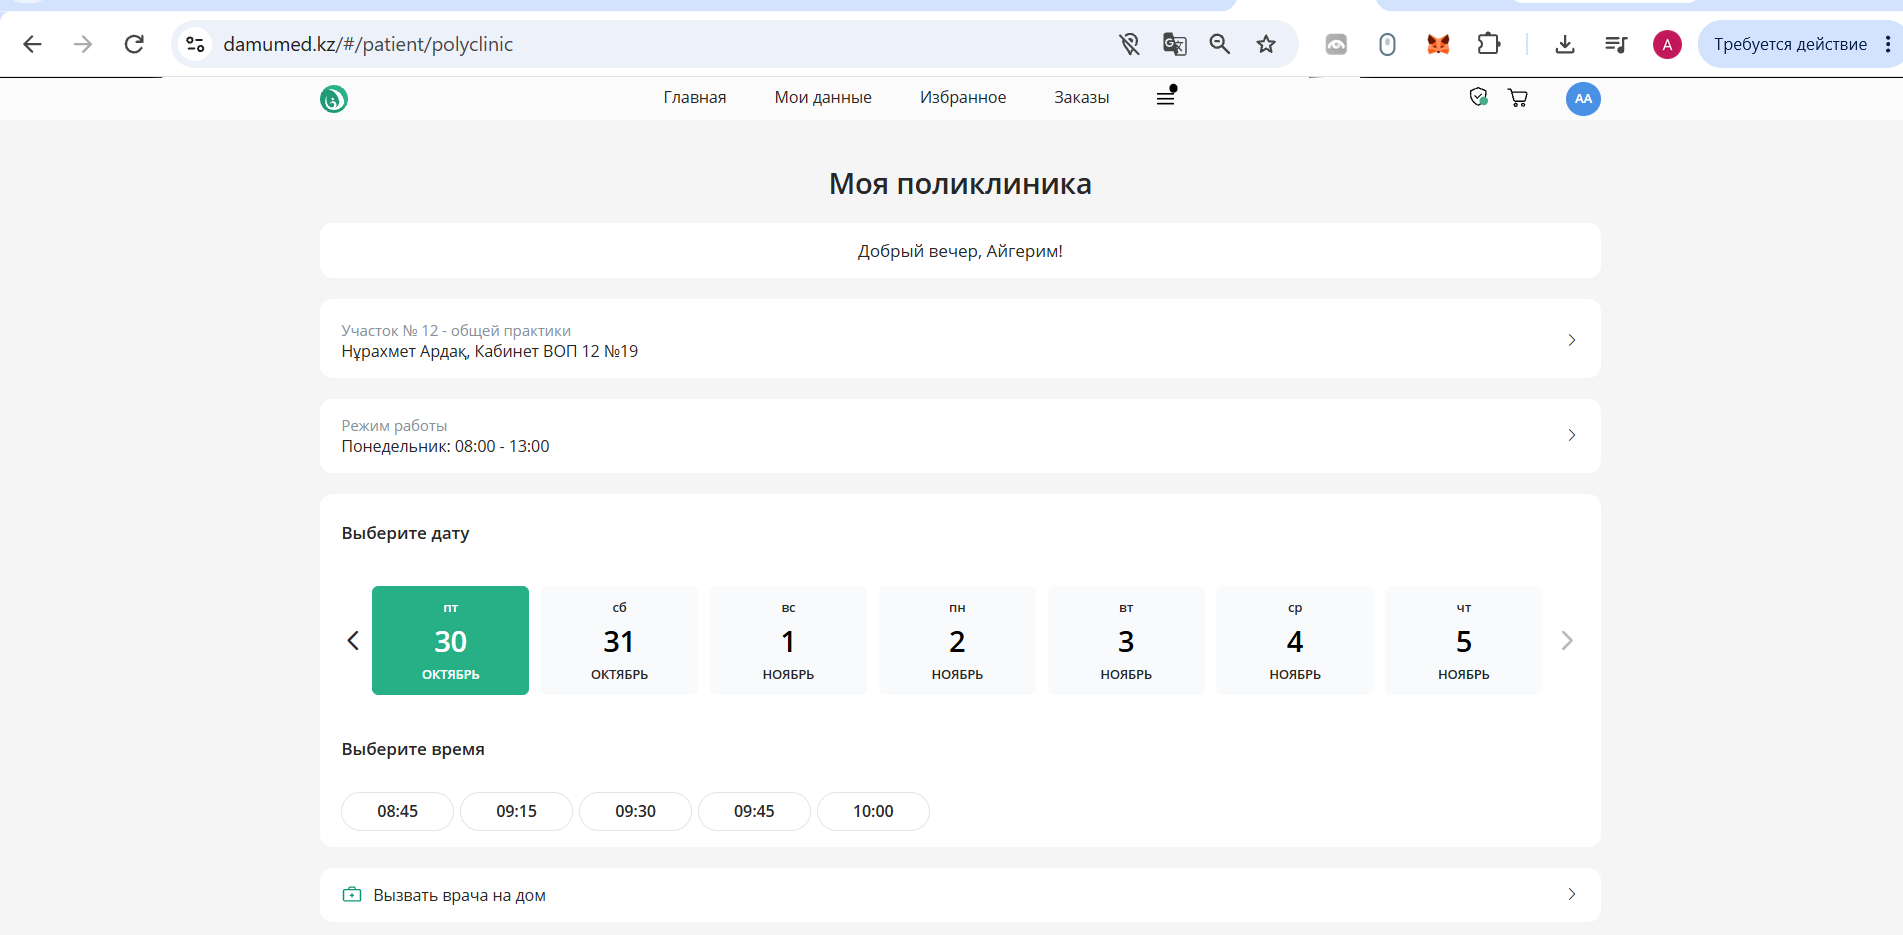
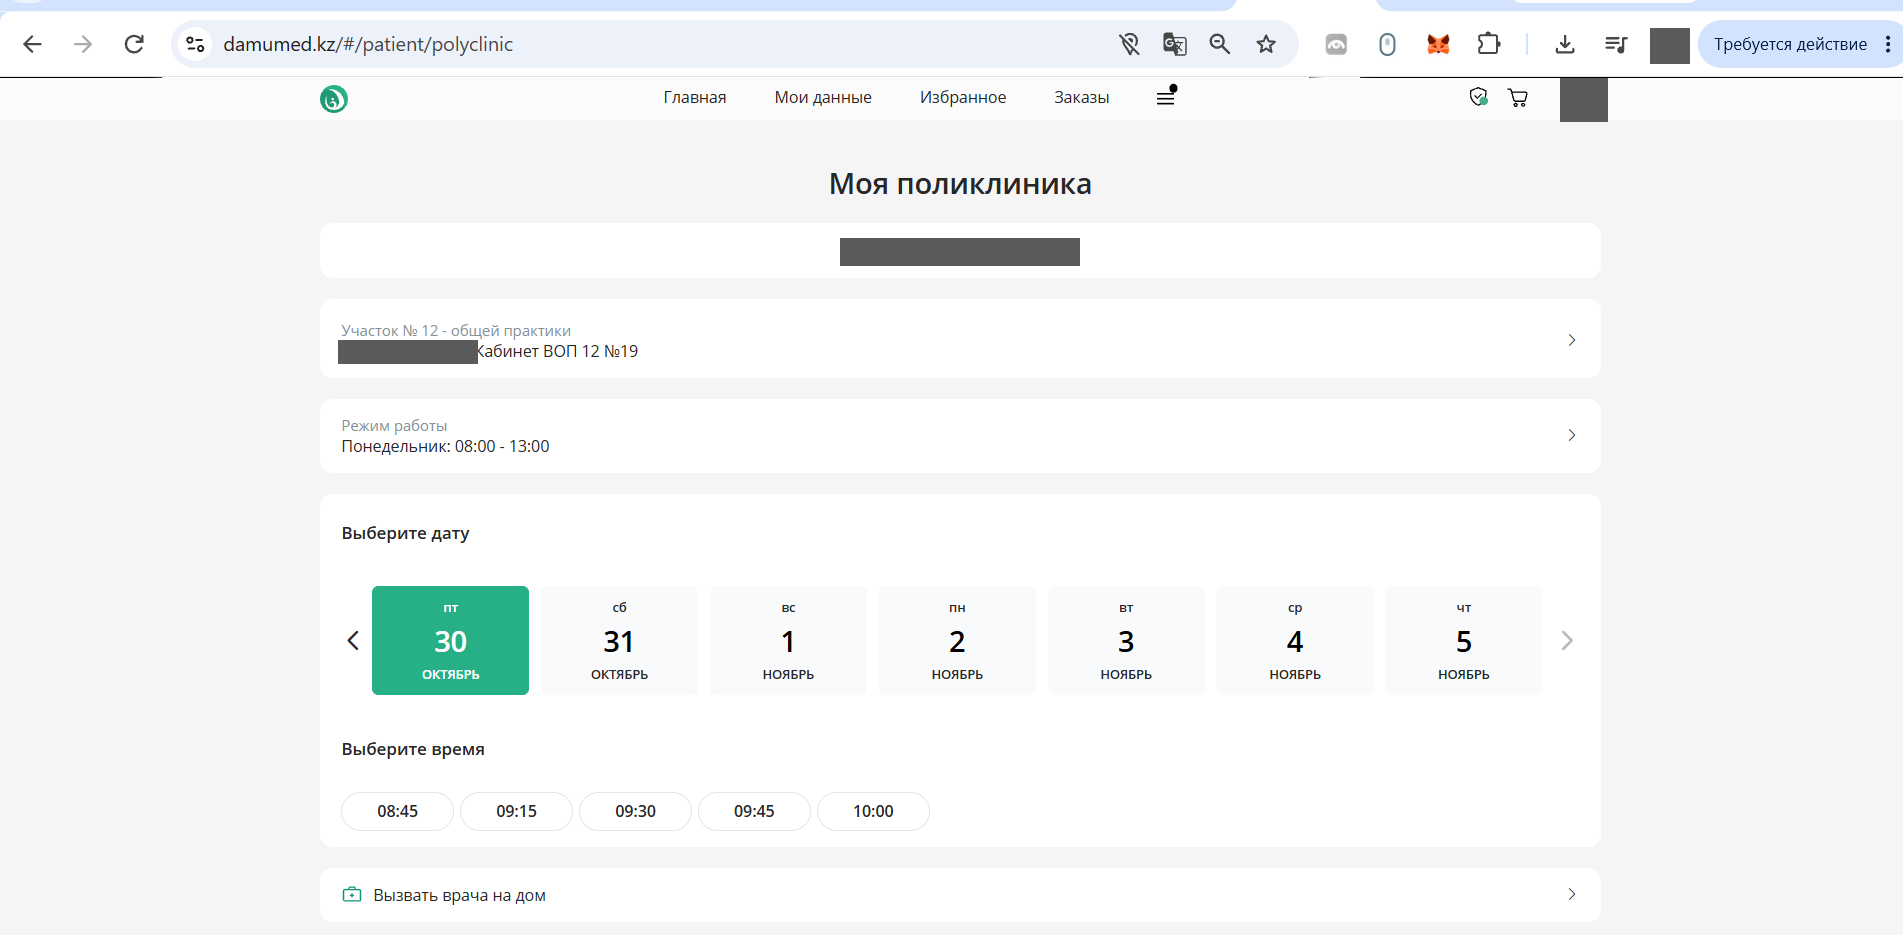
DIP-12: Remove personal data from screenshots, fill comparison for all systems

diff --git a/docs/04-existing-systems.md b/docs/04-existing-systems.md
@@ -17,36 +17,36 @@ Five systems that patients in Kazakhstan use to book outpatient appointments are
 | Criterion | Damumed | eGov.kz service | Mediker | DOQ.kz | MedElement / Doctor.kz | This project |
 |-----------|---------|-----------------|---------|--------|------------------------|--------------|
 | Type | State medical information system with patient app | State portal service | Medical assistance company with own clinic network | Private booking marketplace | Private portal and clinic information system vendor | Academic prototype |
-| C1 Online self-booking | ✔ [N4] | ✔ — application, digital signature required [N3; S-eGov-1, 2] | ? | ✔ [N6] | ✔ [N7] | MVP |
-| C2 Free time slots visible per doctor | ? | ✖ — date chosen blindly; doctors and periods appear only after a date is chosen [S-eGov-3, 5] | ? | ✔ [N6] | ? | MVP |
-| C3 Automatic nearest-slot recommendation across doctors | ? | ✖ [S-eGov-3, 5] | ? | ? | ? | MVP (top-5 ranking) |
-| C4 Distance-aware ranking or map | ? | ✖ — only the clinic of attachment, no choice [S-eGov-4] | ? | ? | ? | v1 |
-| C5 Electronic referral tied to booking | ? | ✖ — only family doctor and obstetrician-gynecologist can be booked [S-eGov-4] | ? | ? | ? | MVP |
+| C1 Online self-booking | ✔ — with own district doctor [N4; S-Dm-1, 3] | ✔ — application, digital signature required [N3; S-eGov-1, 2] | ✖ — "Book" opens a WhatsApp message to the call center [S-Mk-3, 4] | ✔ — guest booking with phone confirmation [N6; S-Dq-3] | ✔ — booking request form [N7; S-Me-2] | MVP |
+| C2 Free time slots visible per doctor | ✔ — dates and times of the district doctor [S-Dm-1] | ✖ — date chosen blindly; doctors and periods appear only after a date is chosen [S-eGov-3, 5] | ✖ [S-Mk-4] | ✔ — free times for several days on each doctor card [N6; S-Dq-2] | ✖ — only a preference ("nearest days", "before / after lunch"), no concrete slots [S-Me-2] | MVP |
+| C3 Automatic nearest-slot recommendation across doctors | ✖ — only own district doctor [S-Dm-1, 2] | ✖ [S-eGov-3, 5] | ✖ | ✖ — filters "today" and "date", no ranking by combined criteria [S-Dq-2] | ✖ — request for "nearest days", the clinic chooses [S-Me-2] | MVP (top-5 ranking) |
+| C4 Distance-aware ranking or map | ✖ — only the clinic of attachment [S-Dm-1] | ✖ — only the clinic of attachment, no choice [S-eGov-4] | ✖ — list of centers by city [S-Mk-2] | Partly — "nearby" filter and map, not combined with waiting time [S-Dq-2] | Partly — clinic addresses and city filter [S-Me-1] | v1 |
+| C5 Electronic referral tied to booking | ? — an "Active referrals" section exists, link to booking not tested [S-Dm-2] | ✖ — only family doctor and obstetrician-gynecologist can be booked [S-eGov-4] | ✖ | ✖ — private paid appointments | ✖ — private paid appointments | MVP |
 | C6 Automatic reminders | ? | ? | ? | ? | ? | MVP |
-| C7 Waitlist or live queue | ? | ✖ — other doctors "in the order of the live queue" at the clinic [S-eGov-2] | ? | ? | ? | v1 |
-| C8 No-show prediction | ? | ✖ | ? | ? | ? | v2 |
-| C9 Patient reviews of doctors | ? | ✖ | ? | ✔ [N6] | ✔ [N7] | Not planned |
+| C7 Waitlist or live queue | ✖ — not found | ✖ — other doctors "in the order of the live queue" at the clinic [S-eGov-2] | ✖ | ✖ — not found | ✖ — not found | v1 |
+| C8 No-show prediction | ✖ | ✖ | ✖ | ✖ | ✖ | v2 |
+| C9 Patient reviews of doctors | ✖ — not found | ✖ | ✖ — not found | ✔ — reviews on doctor pages [N6; S-Dq-3] | ✔ — ratings and reviews of clinics [N7; S-Me-1] | Not planned |
 
-Date of hands-on tests: 23.10.2026;
+Date of hands-on tests: 23.10.2026 (all five systems). Reminders (C6) could not be checked without completing a booking.
 
-Screenshots (personal data removed): [`screenshots/existing-systems/`](screenshots/existing-systems/). S-eGov-1 … S-eGov-5 refer to files `egov-01-…png` … `egov-05-…png`.
+Screenshots (personal data removed): [`screenshots/existing-systems/`](screenshots/existing-systems/). S-eGov-N → `egov-0N-….png`, S-Dm-N → `damumed-0N.png`, S-Mk-N → `mediker-0N.png`, S-Dq-N → `doq-0N.png`, S-Me-N → `medelement-0N.png`.
 
 ## 4.3 Notes on the evidence
 
-- **Damumed.** Online booking and home visit requests were introduced in the mobile app [N4]. Data quality problems with appointment records were reported in 2020 [N5].
+- **Damumed** (web version, patient account, tested 23.10.2026, stopped before confirming). The patient sees the clinic of attachment and the district doctor, a strip of dates and free times, and books with the district doctor; other clinics and doctors are not offered. The "Choose doctor and room" dialog lists only services of the same district doctor. An "Active referrals" section exists in the cabinet; whether a referral leads directly to booking was not tested. Online booking and home visit requests were introduced in the app in 2018 [N4]; data quality problems with appointment records were reported in 2020 [N5].
 - **eGov.kz** (service P702 "Appointment with a doctor", tested 23.10.2026 with a real patient account, stopped before submitting the application). The patient fills a form: date, clinic, service, doctor, period. The clinic is fixed to the clinic of attachment and cannot be changed. Only two services were offered: "family doctor" and "consultation: obstetrician-gynecologist". The date has to be chosen first, without seeing availability: for 25.10 the portal answered "the selected date is unavailable, choose another date or check the work schedule"; for 27.10 and 29.10 the lists of doctors and periods were empty. The service page says that no digital signature is needed, while the form shows "digital signature required". The result is a status notification in the personal cabinet, not an instant confirmation; doctors not in the list are seen "in the order of the live queue".
-- **Mediker.** A medical assistance provider with its own network of medical centers, coordinators and family doctors ([1C-Bit client profile](https://www.1cbit.kz/company/clients/422593/)). Its digital booking features were not found in public sources, so all of its cells stay open until the hands-on test.
-- **DOQ.kz.** A private service for finding doctors with free time slots and patient reviews [N6].
-- **MedElement.** Offers clinic search, online booking, a patient cabinet and a clinic information system [N7].
+- **Mediker.** A medical assistance provider with its own network of medical centers, coordinators and family doctors ([1C-Bit client profile](https://www.1cbit.kz/company/clients/422593/)). On the website (tested 23.10.2026) the patient chooses a medical center from a list by city; the "Book an appointment" button opens a prepared WhatsApp message to the call center. There is no online schedule or slot selection.
+- **DOQ.kz** (tested 23.10.2026 as a guest). Doctors are listed by specialty with free times for several days on each card; filters include "today", "nearby" and date, and a map is available. Booking requires name and phone with SMS confirmation. Results are not ranked by a combination of waiting time and distance, and referrals are not part of the process (paid private appointments) [N6].
+- **MedElement** (tested 23.10.2026 as a guest). Clinics are listed with ratings, reviews, addresses and prices. The booking form collects name, phone and e-mail and a time preference ("nearest days", "today", "before / after lunch"); concrete free slots are not shown, the clinic confirms the time [N7].
 
 References [N…] are listed in [`03-literature.md`](03-literature.md#35-references).
 
 ## 4.4 Why a new solution is needed
 
-Among the confirmed features, the systems allow online booking with a chosen doctor, and the private portals show free time and reviews. None of the reviewed sources confirms that any of these systems:
+The hands-on tests show that state services book only with the clinic of attachment (Damumed with visible slots of the district doctor, eGov without visible availability), Mediker books through a messenger, and private portals show free time (DOQ.kz) or accept requests (MedElement). None of the five systems:
 
 1. recommends the nearest suitable slot **across doctors and clinics** by waiting time and distance (C3, C4);
 2. ties an **electronic referral** to booking with a specialist (C5);
 3. acts on the **risk of a no-show** or offers freed slots to a waitlist (C7, C8).
 
-If the hands-on test confirms these gaps, they define the project's contribution. If a system turns out to have one of these features, the conclusion and the scope are updated accordingly.
+These gaps define the project's contribution. DOQ.kz comes closest on C2 and C4 (visible slots, "nearby" filter), which is why the project is evaluated against an "earliest slot" baseline and measures distance explicitly (experiment E1).
